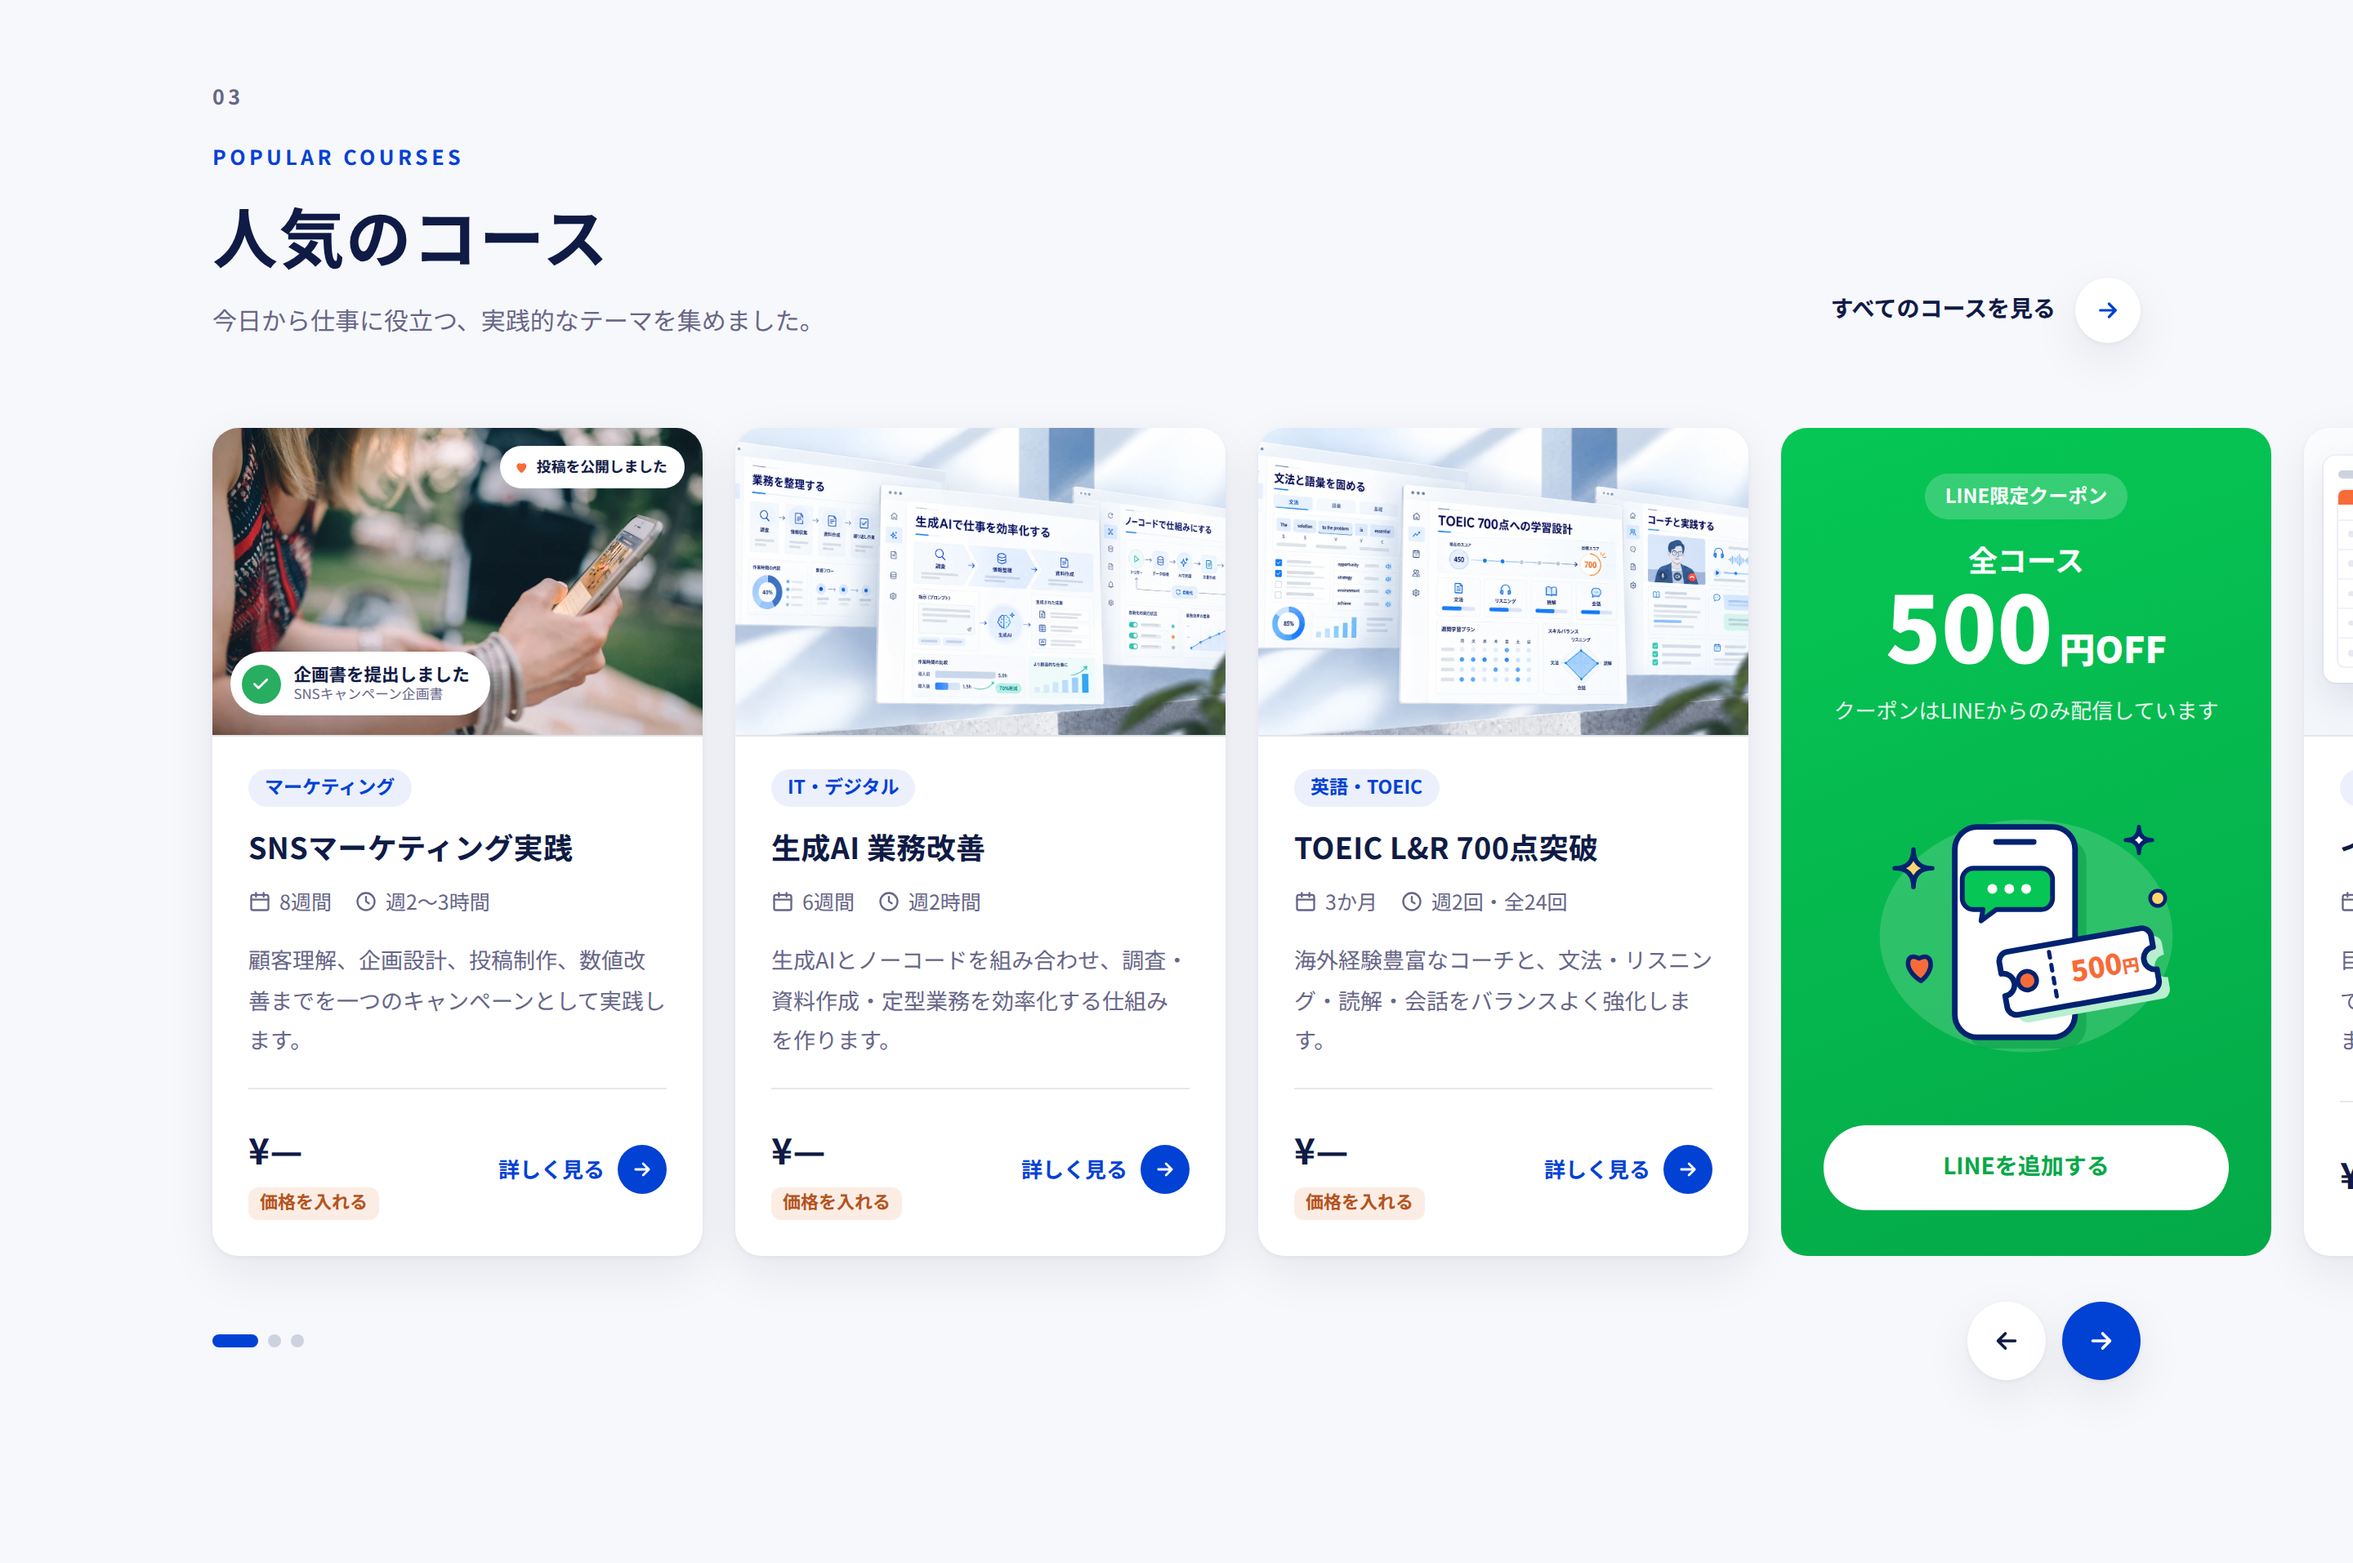
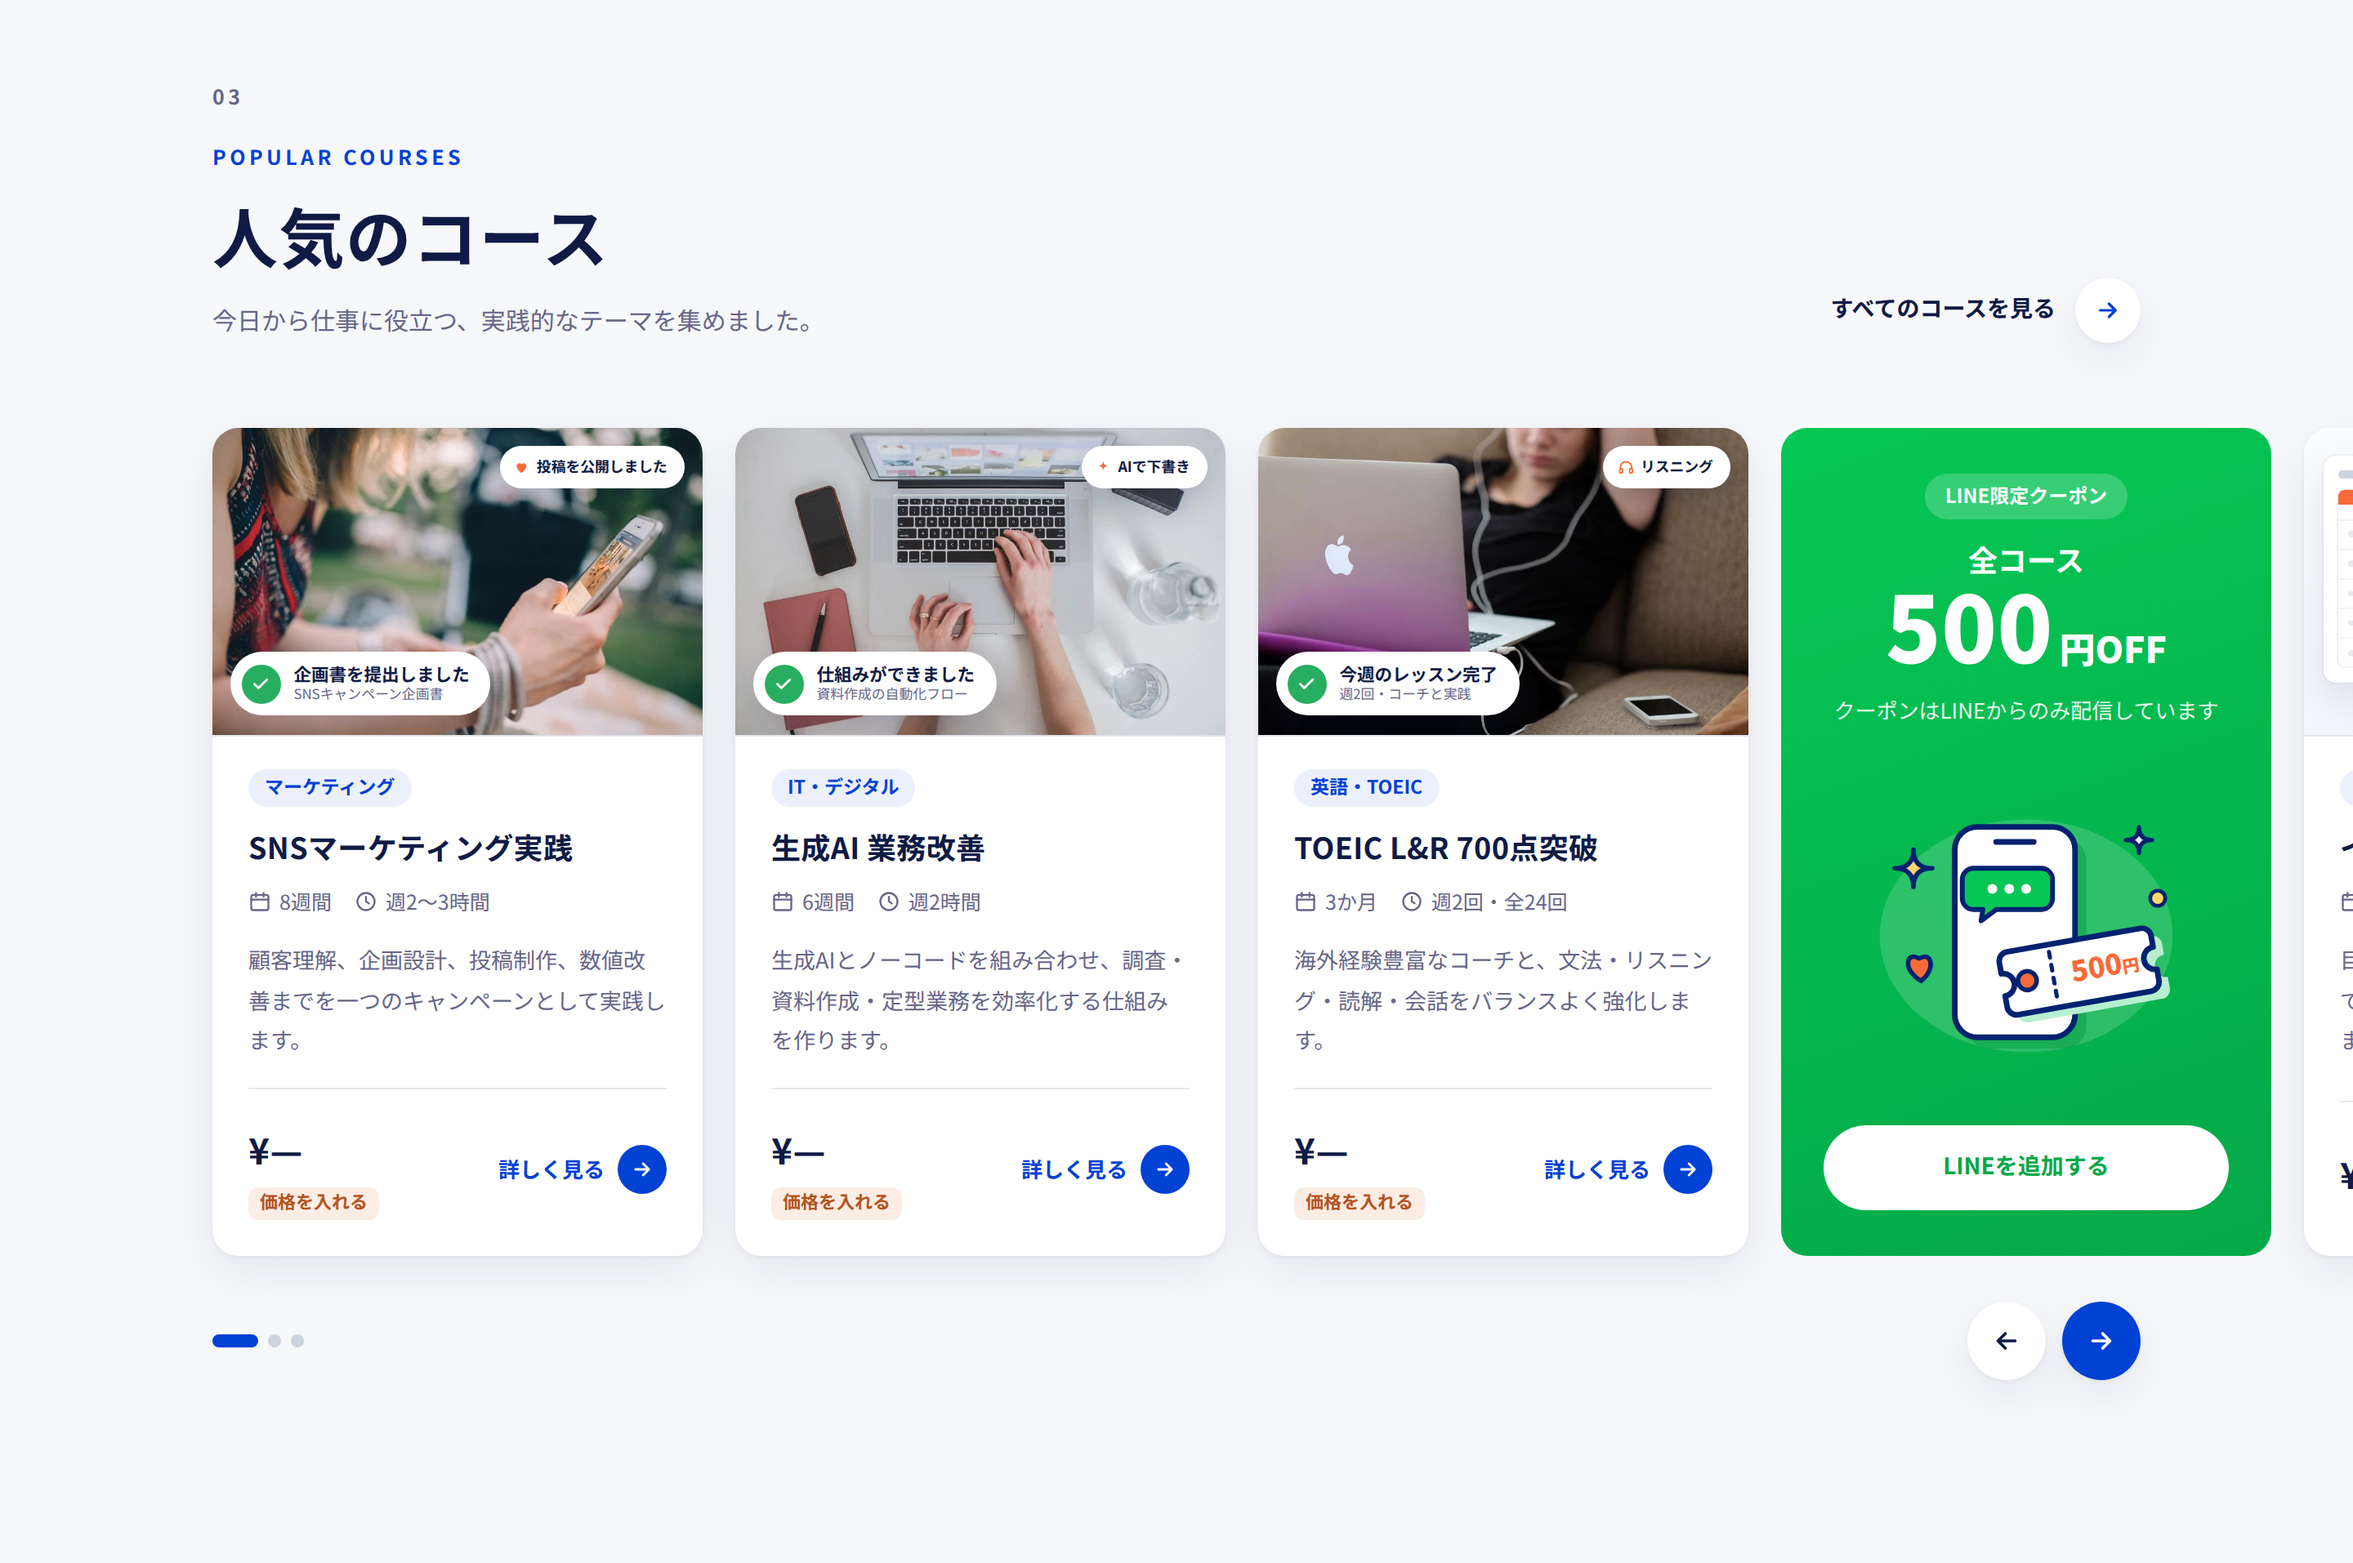
docs(lp): 03 F案を生成AI・TOEICにも適用（写真＋浮かぶ小カード、PNG）
Claude-Session: https://claude.ai/code/session_018bY9jRKEdcKYTrkj9d6ZsY

Changed region(s): [[0.3125, 0.2466, 0.75, 0.4932]]

diff --git a/lp/assets/photos/CREDITS.md b/lp/assets/photos/CREDITS.md
@@ -3,5 +3,7 @@
 | ファイル | 出典 | ライセンス | 元ページ |
 |---|---|---|---|
 | sns-phone.webp | rawpixel（Openverse経由）「Free woman using social media」 | CC0 1.0（パブリックドメイン） | https://www.rawpixel.com/image/5921379/photo-image-public-domain-student-woman |
+| ai-laptop.webp | rawpixel（Openverse経由）「Free view woman working MacBook」 | CC0 1.0（パブリックドメイン） | https://www.rawpixel.com/image/5919492/image-background-phone-public-domain |
+| toeic-study.webp | StockSnap（Openverse経由）「Laptop Apple」 | CC0 1.0（パブリックドメイン） | https://stocksnap.io/photo/laptop-apple-D0RFK66UQE |
 
 CC0のため表記は不要ですが、出典管理のため記録しています。
